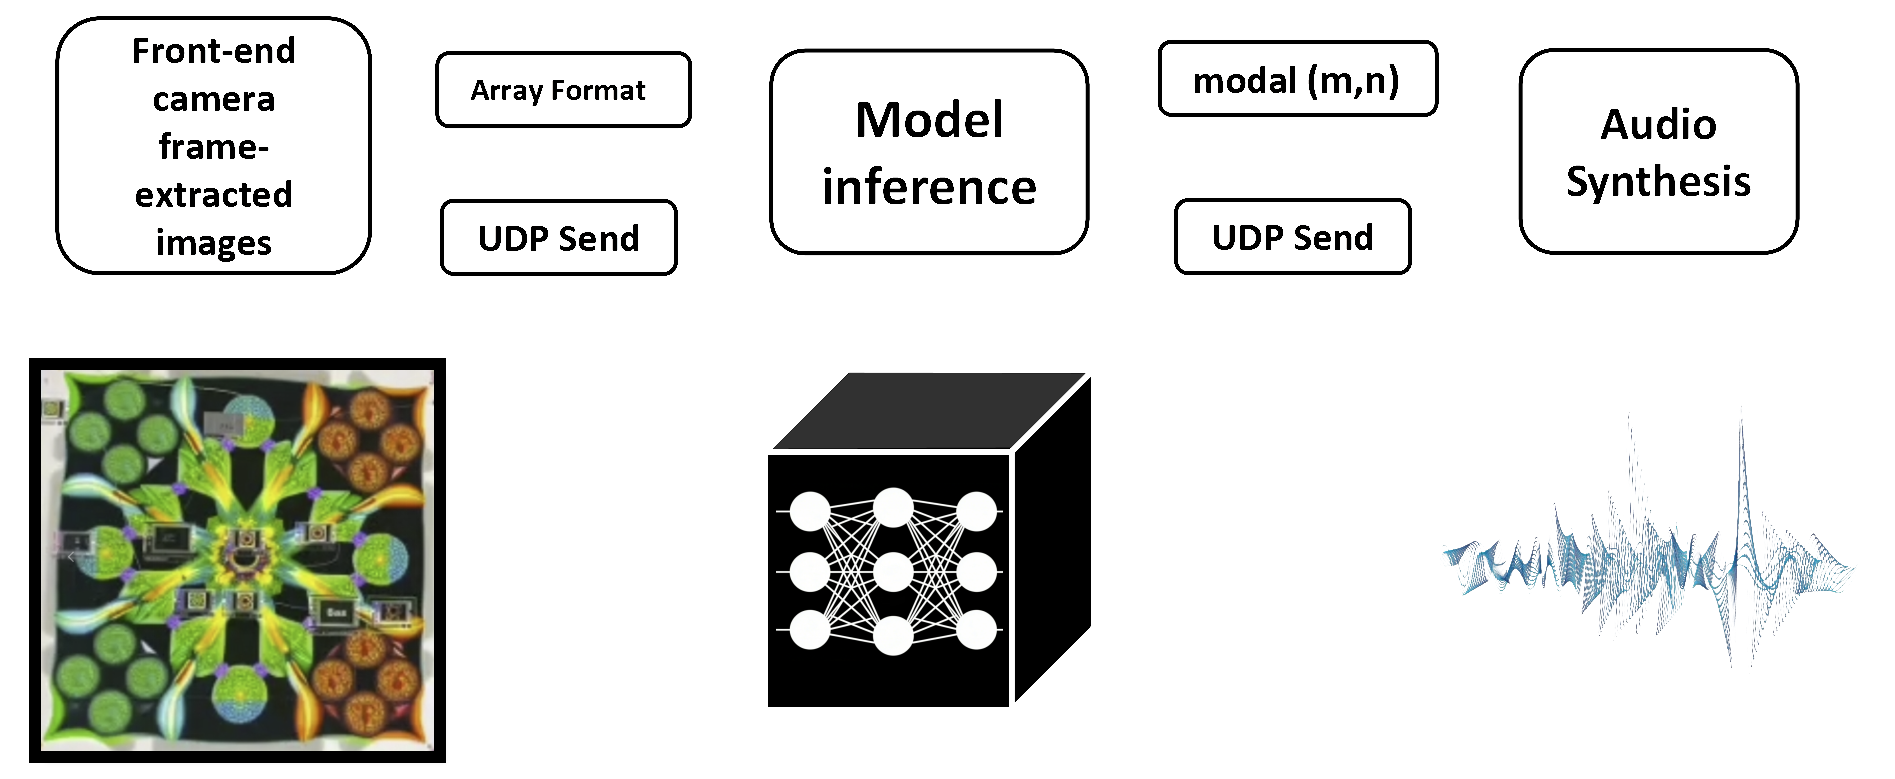
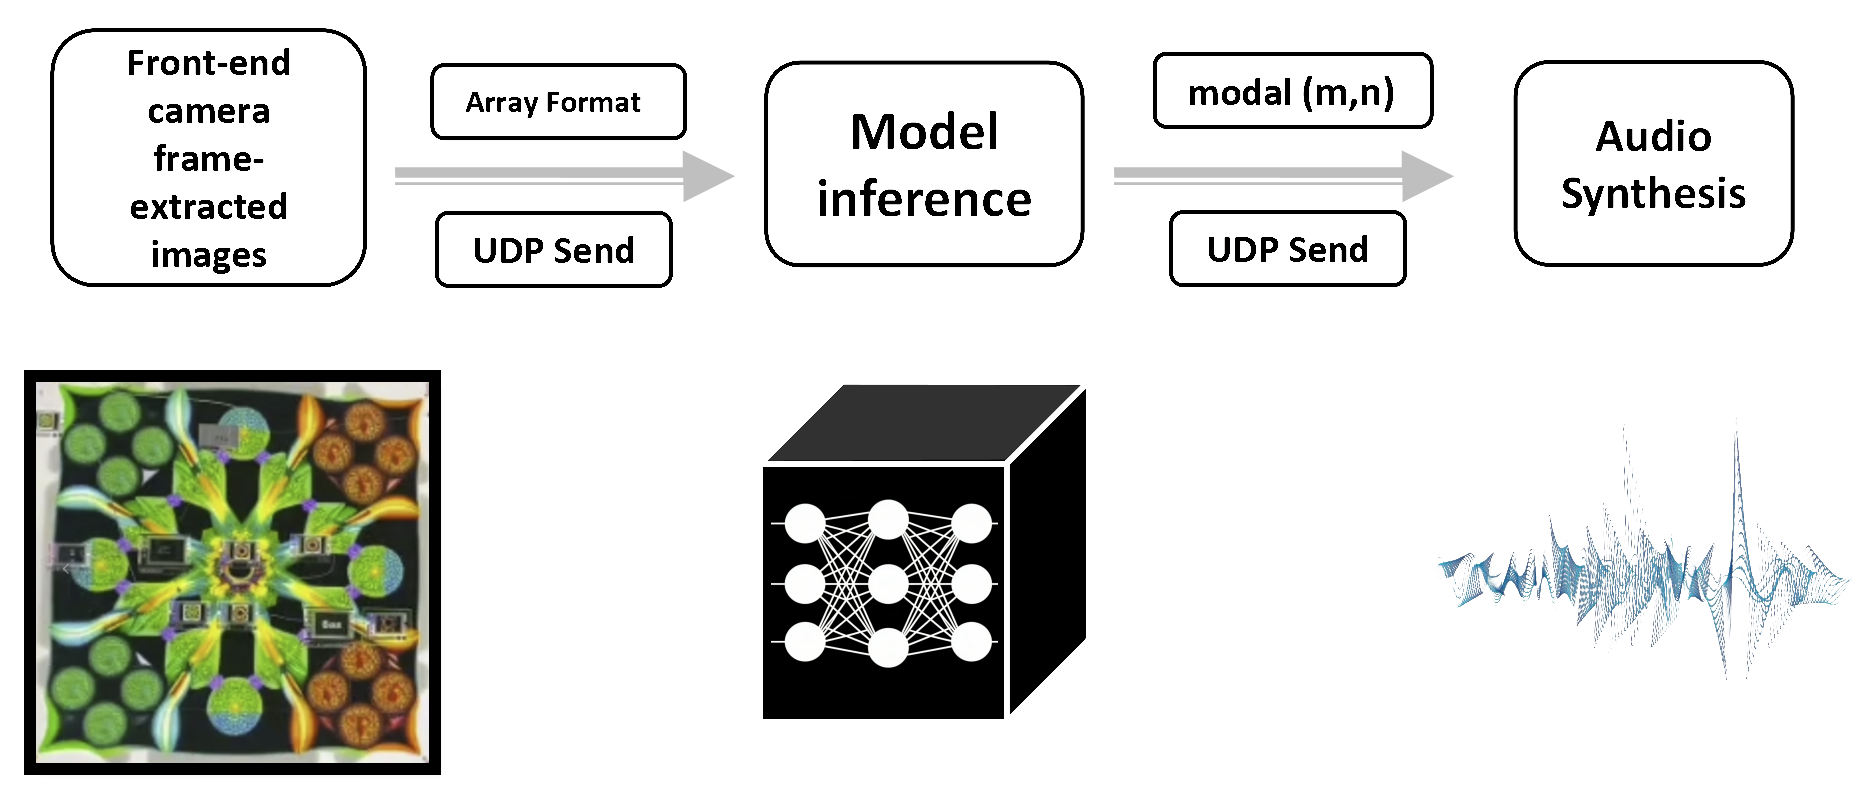
去除白色容器2

diff --git a/content/_index.md b/content/_index.md
@@ -108,9 +108,9 @@ sections:
                 <li>Built a low-latency audio computing architecture based on C++, JUCE and RTNeural, realized allocation-free and wait-free model inference with SIMD acceleration, and designed a three-stage curriculum learning strategy for interactive music training.</li>
               </ul>
             </div>
-            <figure class="publication-figure">
-              <div class="publication-links"><span>------</span><a href="#">Paper Link</a><a href="#">Github Link</a><span>------</span></div>
-              <img src="/LK%20Jam.png" alt="Real-time Human-Machine Interactive Music Generation System preview">
+            <figure class="publication-figure" style="background: transparent !important; box-shadow: none !important; border: 0 !important;">
+              <div class="publication-links" style="background: transparent !important;"><span>------</span><a href="#">Paper Link</a><a href="#">Github Link</a><span>------</span></div>
+              <img style="background: transparent !important; box-shadow: none !important; border: 0 !important; border-radius: 0 !important;" src="/LK%20Jam.png" alt="Real-time Human-Machine Interactive Music Generation System preview">
             </figure>
           </article>
 
@@ -123,9 +123,9 @@ sections:
                 <li>Validated the system performance experimentally and proposed a reusable mapping framework for audio-visual artistic creation.</li>
               </ul>
             </div>
-            <figure class="publication-figure">
-              <div class="publication-links"><span>------</span><a href="#">Paper Link</a><a href="#">Github Link</a><span>------</span></div>
-              <img src="/ChladniSonify.png" alt="ChladniSonify preview">
+            <figure class="publication-figure" style="background: transparent !important; box-shadow: none !important; border: 0 !important;">
+              <div class="publication-links" style="background: transparent !important;"><span>------</span><a href="#">Paper Link</a><a href="#">Github Link</a><span>------</span></div>
+              <img style="background: transparent !important; box-shadow: none !important; border: 0 !important; border-radius: 0 !important;" src="/ChladniSonify.png" alt="ChladniSonify preview">
             </figure>
           </article>
 
@@ -138,9 +138,9 @@ sections:
                 <li>Constructed a multidimensional comparative framework that clarifies paradigm shifts between traditional composition and algorithmic methodologies.</li>
               </ul>
             </div>
-            <figure class="publication-figure">
-              <div class="publication-links"><span>------</span><a href="#">Paper Link</a><a href="#">Github Link</a><span>------</span></div>
-              <img src="/Rules%2C%20Probability%2C%20and%20Emergence.png" alt="Rules, Probability, and Emergence preview">
+            <figure class="publication-figure" style="background: transparent !important; box-shadow: none !important; border: 0 !important;">
+              <div class="publication-links" style="background: transparent !important;"><span>------</span><a href="#">Paper Link</a><a href="#">Github Link</a><span>------</span></div>
+              <img style="background: transparent !important; box-shadow: none !important; border: 0 !important; border-radius: 0 !important;" src="/Rules%2C%20Probability%2C%20and%20Emergence.png" alt="Rules, Probability, and Emergence preview">
             </figure>
           </article>
 
@@ -153,9 +153,9 @@ sections:
                 <li>Revealed dual principles of tonal transformation in twentieth-century music through comparison across classical and jazz idioms.</li>
               </ul>
             </div>
-            <figure class="publication-figure">
-              <div class="publication-links"><span>------</span><a href="#">Paper Link</a><a href="#">Github Link</a><span>------</span></div>
-              <img src="/Dual%20Trajectories%20of%20Tonal%20Transformation.png" alt="Dual Trajectories of Tonal Transformation preview">
+            <figure class="publication-figure" style="background: transparent !important; box-shadow: none !important; border: 0 !important;">
+              <div class="publication-links" style="background: transparent !important;"><span>------</span><a href="#">Paper Link</a><a href="#">Github Link</a><span>------</span></div>
+              <img style="background: transparent !important; box-shadow: none !important; border: 0 !important; border-radius: 0 !important;" src="/Dual%20Trajectories%20of%20Tonal%20Transformation.png" alt="Dual Trajectories of Tonal Transformation preview">
             </figure>
           </article>
 
@@ -168,9 +168,9 @@ sections:
                 <li>Demonstrated a replicable digital performance workflow and validated the feasibility of campus network–5G convergence for live music applications.</li>
               </ul>
             </div>
-            <figure class="publication-figure">
-              <div class="publication-links"><span>------</span><a href="#">Paper Link</a><a href="#">Github Link</a><span>------</span></div>
-              <img src="/Research%20on%20VR%20Live%20Streaming%20Interaction.png" alt="Research on VR Live Streaming Interaction preview">
+            <figure class="publication-figure" style="background: transparent !important; box-shadow: none !important; border: 0 !important;">
+              <div class="publication-links" style="background: transparent !important;"><span>------</span><a href="#">Paper Link</a><a href="#">Github Link</a><span>------</span></div>
+              <img style="background: transparent !important; box-shadow: none !important; border: 0 !important; border-radius: 0 !important;" src="/Research%20on%20VR%20Live%20Streaming%20Interaction.png" alt="Research on VR Live Streaming Interaction preview">
             </figure>
           </article>
         </div>
